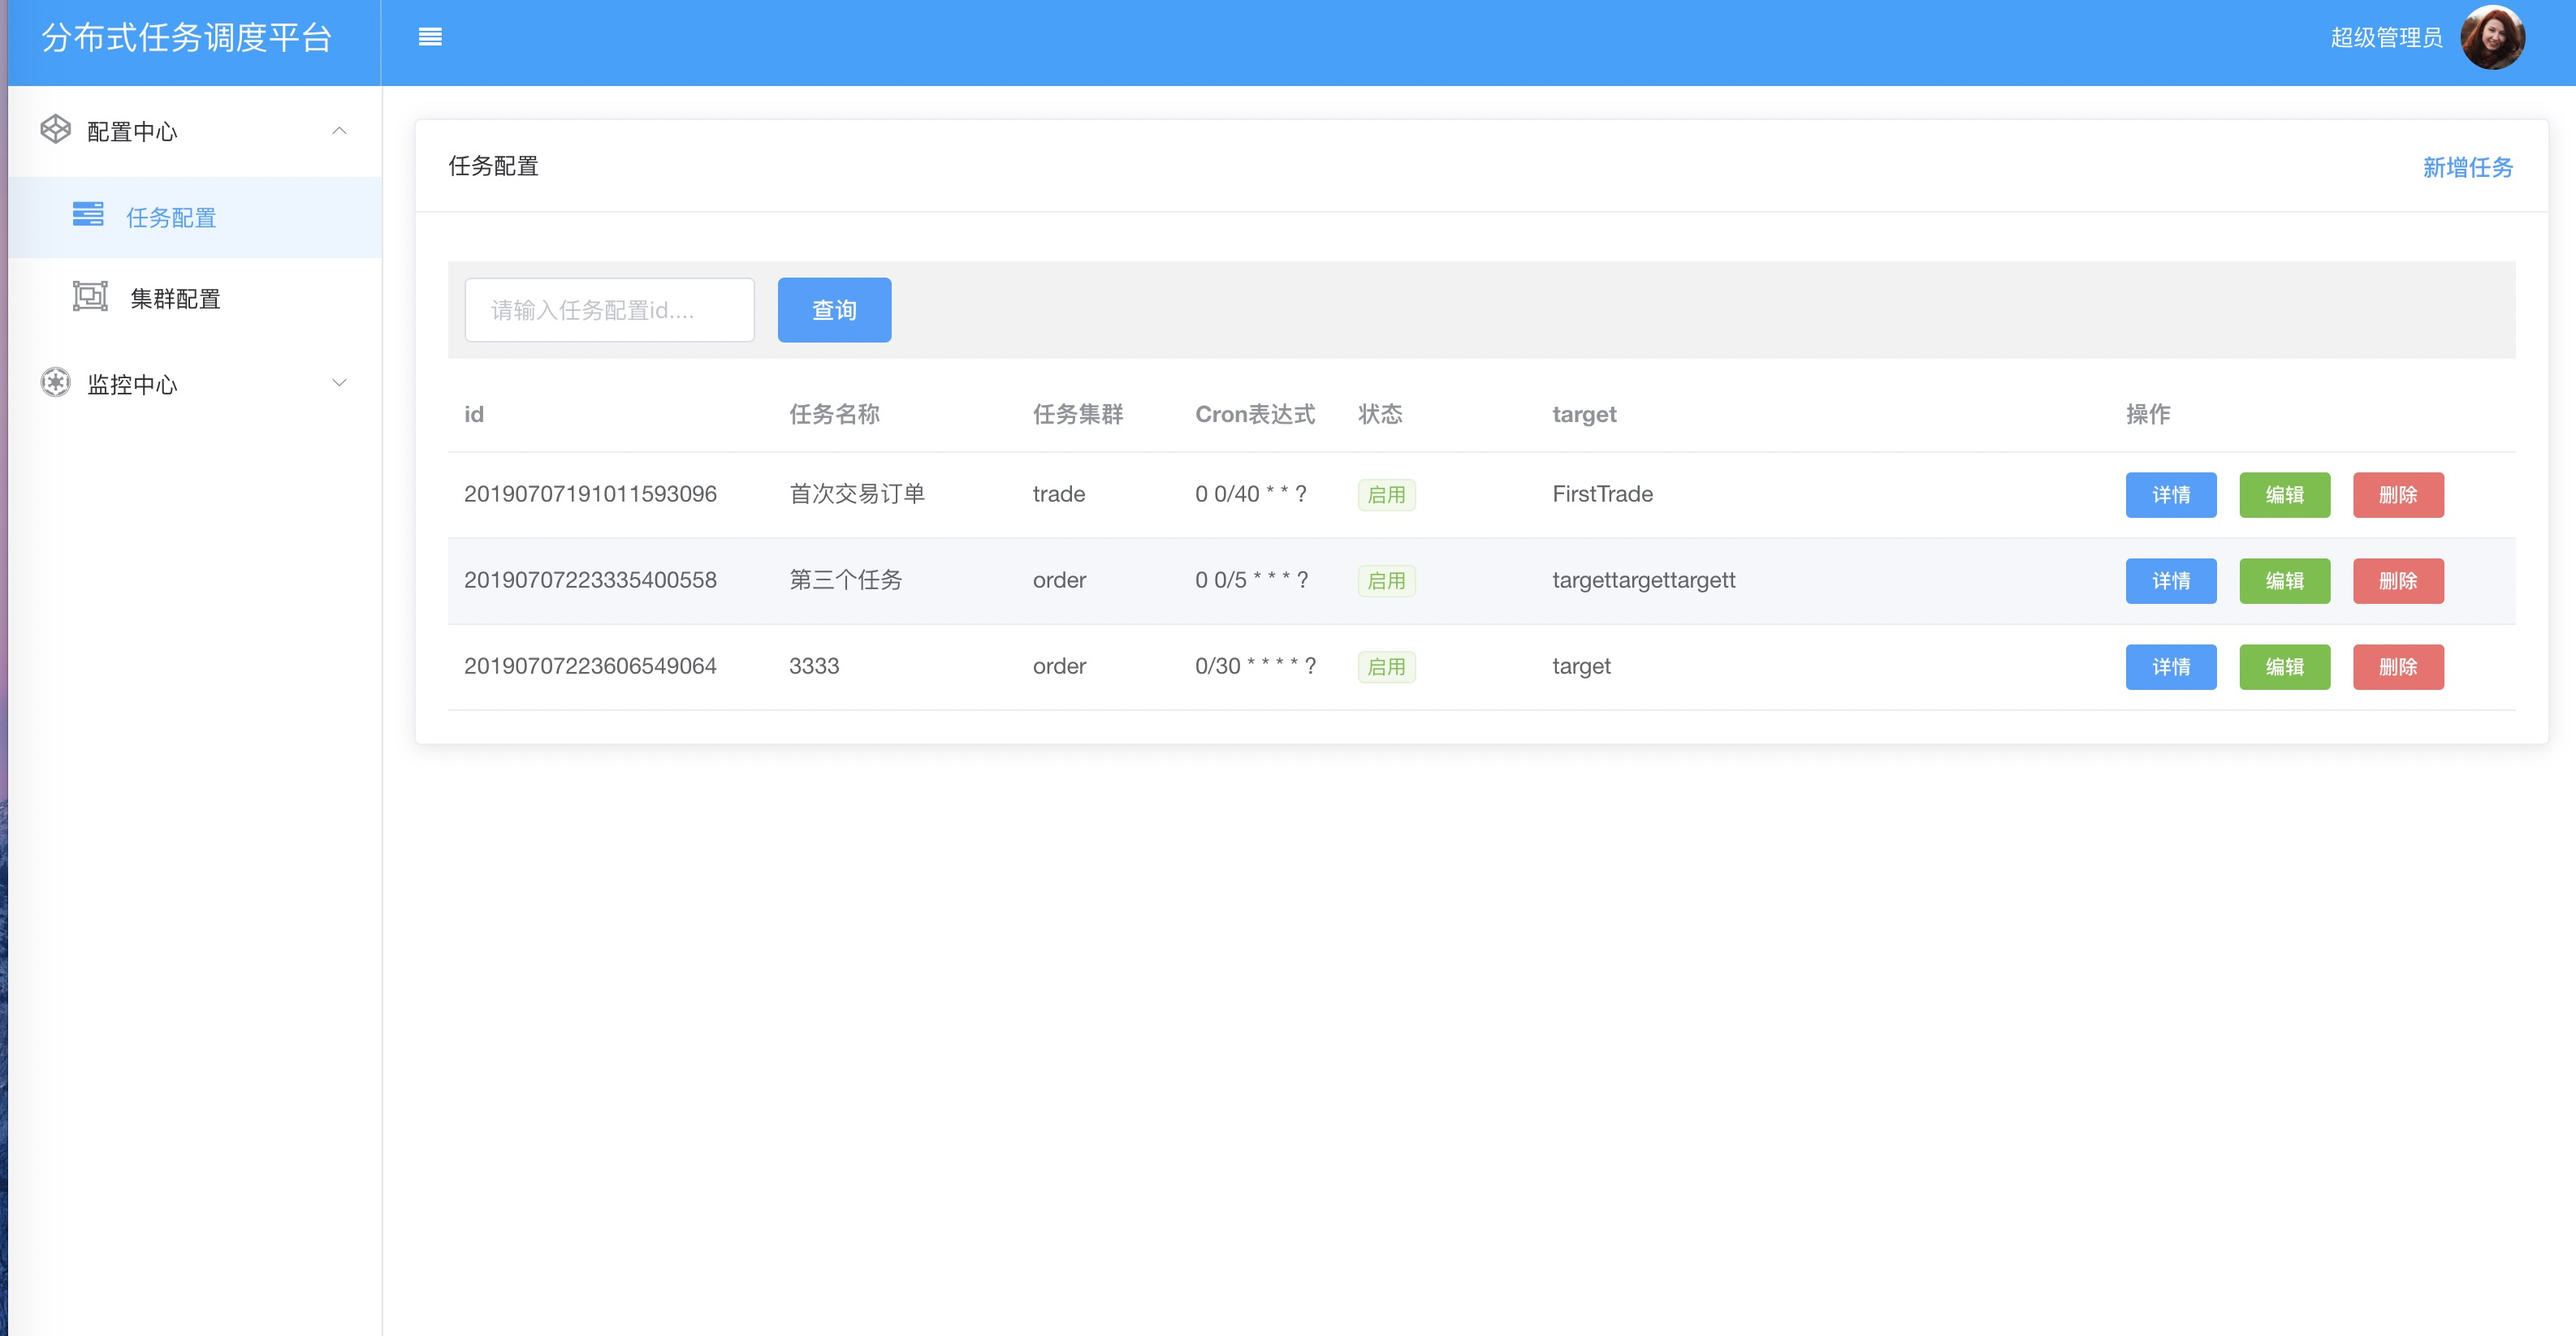
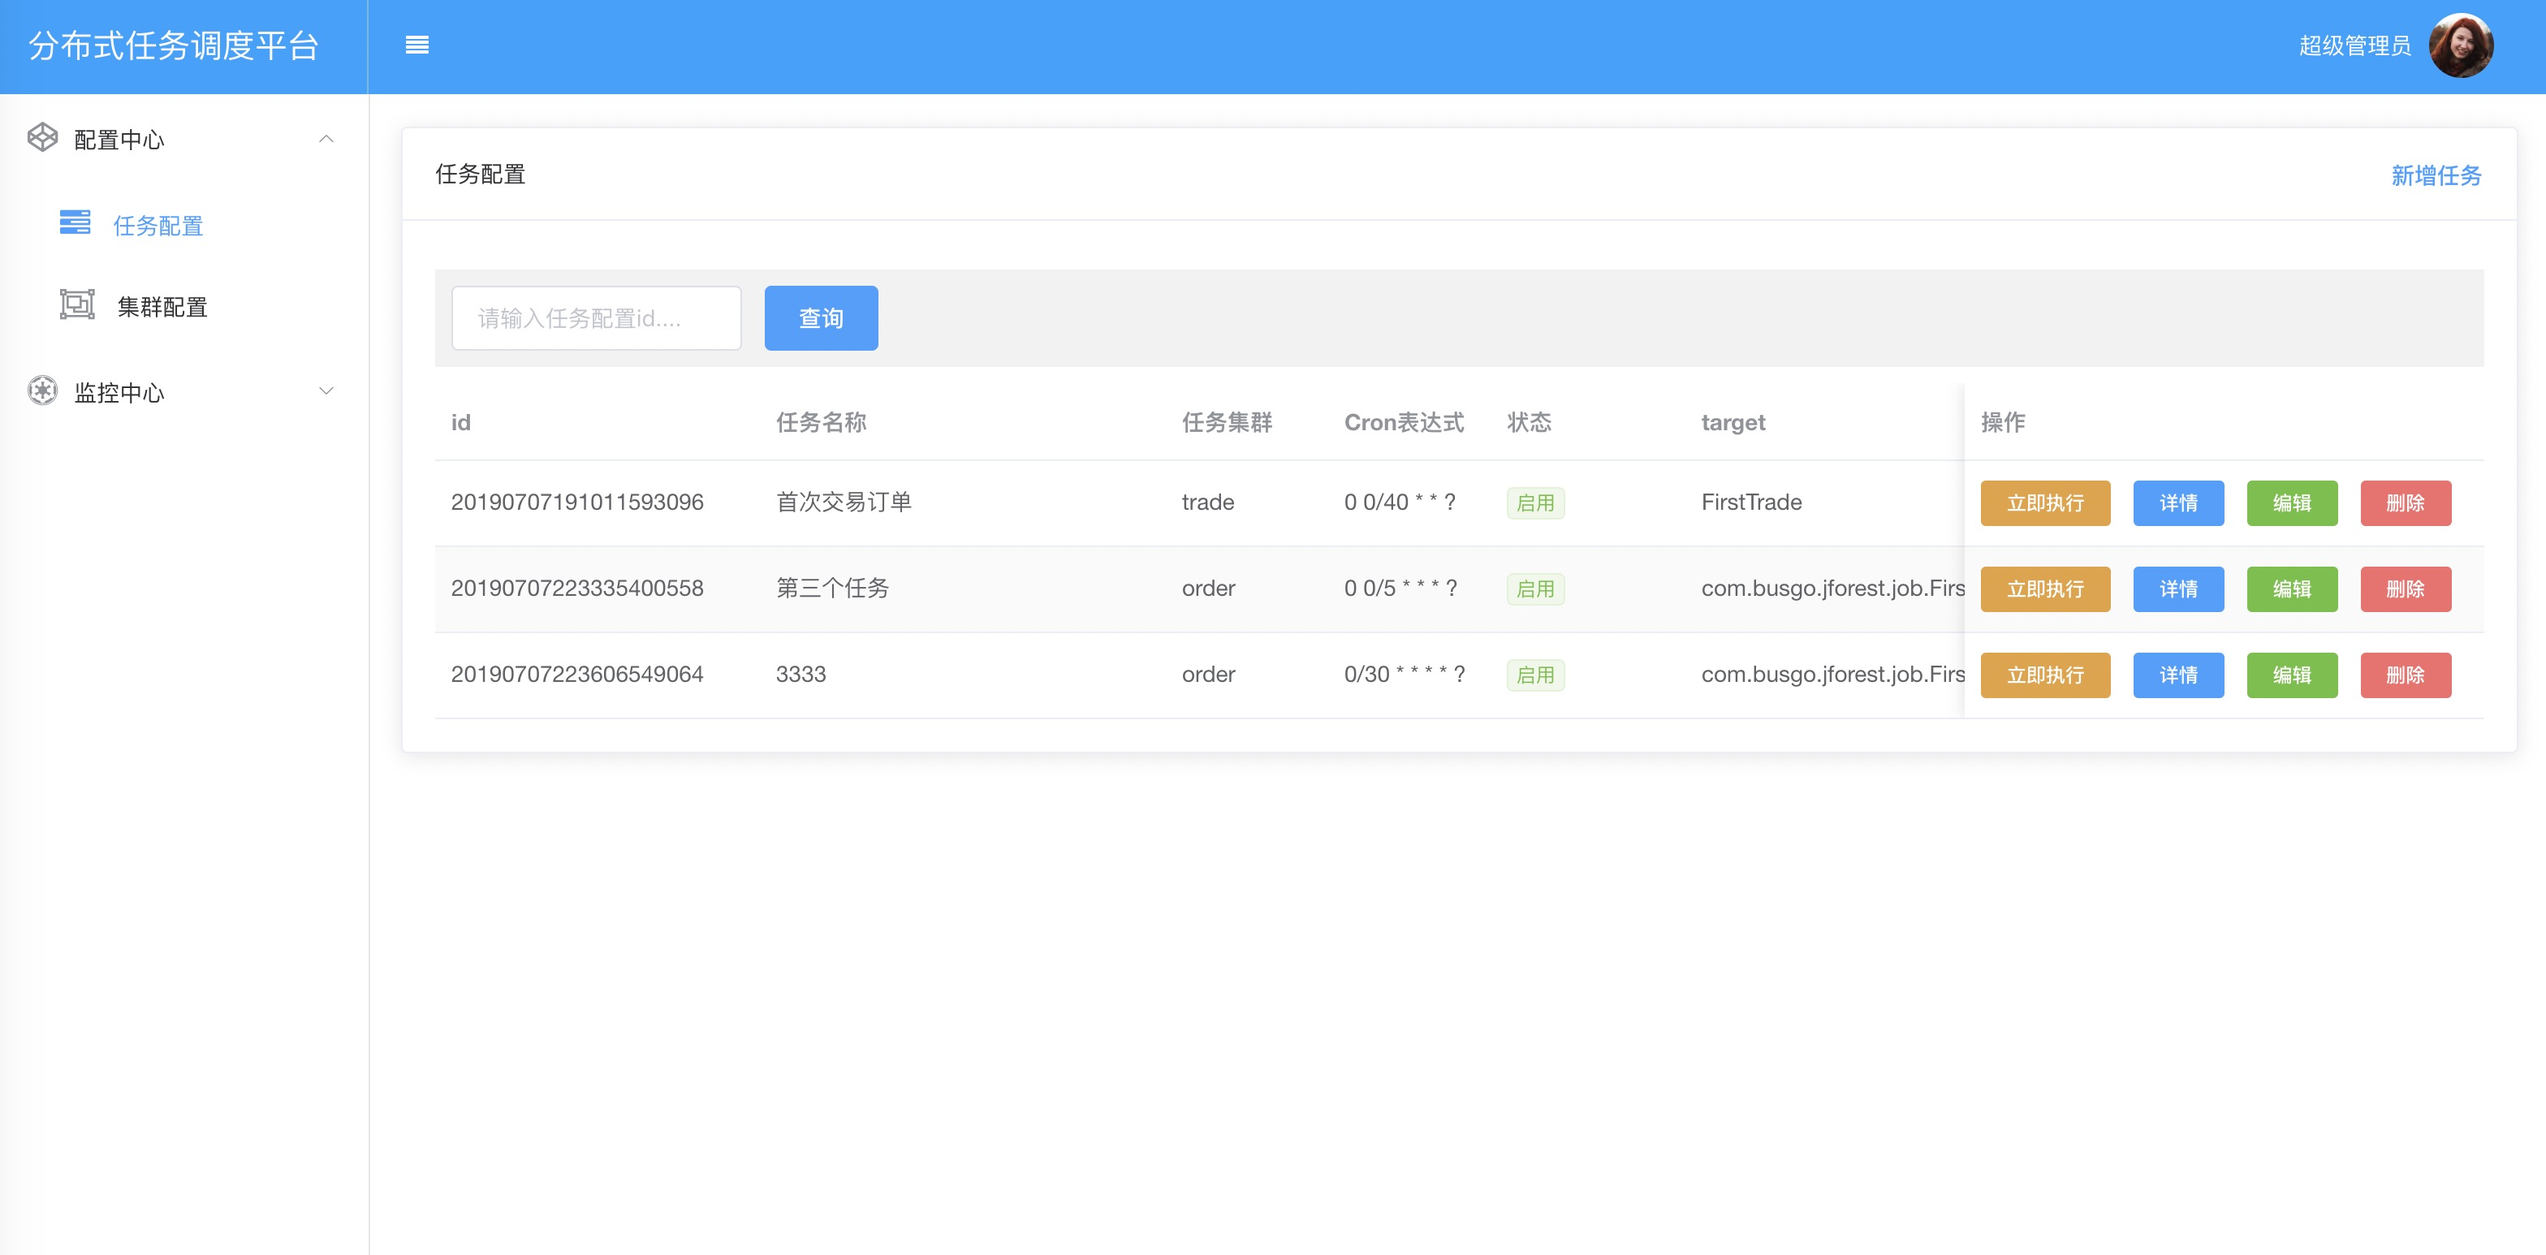
add manual execute job

diff --git a/api.go b/api.go
@@ -7,6 +7,7 @@ import (
 	"github.com/labstack/echo/middleware"
 	"github.com/robfig/cron"
 	"net/http"
+	"time"
 )
 
 type JobAPi struct {
@@ -28,6 +29,7 @@ func NewJobAPi(node *JobNode) (api *JobAPi) {
 	e.POST("/job/edit", api.editJob)
 	e.POST("/job/delete", api.deleteJob)
 	e.POST("/job/list", api.jobList)
+	e.POST("/job/execute", api.manualExecute)
 	e.POST("/group/add", api.addGroup)
 	e.POST("/group/list", api.groupList)
 	e.POST("/node/list", api.nodeList)
@@ -437,13 +439,13 @@ ERROR:
 func (api *JobAPi) executeSnapshotList(context echo.Context) (err error) {
 
 	var (
-		query     *QueryExecuteSnapshotParam
-		message   string
-		count     int64
-		snapshots []*JobExecuteSnapshot
-		totalPage int64
-		where     *xorm.Session
-		queryWhere     *xorm.Session
+		query      *QueryExecuteSnapshotParam
+		message    string
+		count      int64
+		snapshots  []*JobExecuteSnapshot
+		totalPage  int64
+		where      *xorm.Session
+		queryWhere *xorm.Session
 	)
 	query = new(QueryExecuteSnapshotParam)
 	if err = context.Bind(query); err != nil {
@@ -509,5 +511,88 @@ func (api *JobAPi) executeSnapshotList(context echo.Context) (err error) {
 
 ERROR:
 	return context.JSON(http.StatusOK, Result{Code: -1, Message: message})
+
+}
+
+// manual execute
+func (api *JobAPi) manualExecute(context echo.Context) (err error) {
+
+	var (
+		conf         *JobConf
+		value        []byte
+		client       *Client
+		snapshotPath string
+		snapshot     *JobSnapshot
+		success      bool
+	)
+
+	conf = new(JobConf)
+	if err = context.Bind(conf); err != nil {
+		return context.JSON(http.StatusOK, Result{Code: -1, Message: "非法的参数"})
+
+	}
+
+	// 检查任务配置id是否存在
+	if conf.Id == "" {
+
+		return context.JSON(http.StatusOK, Result{Code: -1, Message: "此任务配置不存在"})
+	}
+
+	// 查询任务配置
+	if value, err = api.node.etcd.Get(JobConfPath + conf.Id); err != nil {
+		return context.JSON(http.StatusOK, Result{Code: -1, Message: "查询任务配置出现异常:" + err.Error()})
+	}
+
+	// 任务配置是否为空
+	if len(value) == 0 {
+
+		return context.JSON(http.StatusOK, Result{Code: -1, Message: "此任务配置内容为空"})
+	}
+
+	if conf, err = UParkJobConf(value); err != nil {
+		return context.JSON(http.StatusOK, Result{Code: -1, Message: "非法的任务配置内容"})
+	}
+
+	// select a execute  job client for group
+	if client, err = api.node.groupManager.selectClient(conf.Group); err != nil {
+		return context.JSON(http.StatusOK, Result{Code: -1, Message: "没有找到此要执行的任务作业节点"})
+	}
+
+	// build the job snapshot path
+	snapshotPath = fmt.Sprintf(JobClientSnapshotPath, conf.Group, client.name)
+
+	// build job snapshot
+	snapshotId := GenerateSerialNo() + conf.Id
+	snapshot = &JobSnapshot{
+		Id:         snapshotId,
+		JobId:      conf.Id,
+		Name:       conf.Name,
+		Ip:         client.name,
+		Group:      conf.Group,
+		Cron:       conf.Cron,
+		Target:     conf.Target,
+		Params:     conf.Params,
+		Mobile:     conf.Mobile,
+		Remark:     conf.Remark,
+		CreateTime: ToDateString(time.Now()),
+	}
+
+	// park the job snapshot
+	if value, err = ParkJobSnapshot(snapshot); err != nil {
+
+		return context.JSON(http.StatusOK, Result{Code: -1, Message: err.Error()})
+	}
+
+	// dispatch the job snapshot the client
+	if success, _, err = api.node.etcd.PutNotExist(snapshotPath, string(value)); err != nil {
+		return context.JSON(http.StatusOK, Result{Code: -1, Message: err.Error()})
+	}
+
+	if !success {
+
+		return context.JSON(http.StatusOK, Result{Code: -1, Message: "手动执行任务失败,请重试"})
+	}
+
+	return context.JSON(http.StatusOK, Result{Code: 0, Message: "手动执行任务请求已提交"})
 
 }

diff --git a/protocol.go b/protocol.go
@@ -177,3 +177,10 @@ type PageResult struct {
 	TotalCount int         `json:"totalCount"`
 	List       interface{} `json:"list"`
 }
+
+//  manual execute job
+type ManualExecuteJobParam struct {
+	Id    string `json:"id"`
+	Name  string `json:"name"`
+	Group string `json:"group"`
+}

diff --git a/README.md b/README.md
@@ -303,8 +303,8 @@ such as  /forest/client/execute/snapshot/trade/192.168.1.1/201901011111111323
 
 ##  待完善
 
-1.  手动执行任务
-2.  任务配置同步
+1.  任务配置同步
+
 ##  联系方式
 
 如有问题请联系 QQ:248434199    Email:248434199@qq.com
